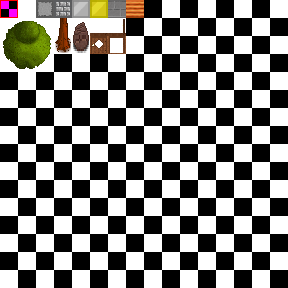
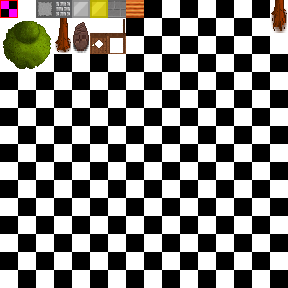
[Server, Client] Almost finished tile entities

Changed region(s): [[0.9375, 0.0, 1.0, 0.125]]

diff --git a/client-source/World/EntitiesManager.cpp b/client-source/World/EntitiesManager.cpp
@@ -54,6 +54,7 @@ void EntitiesManager::updateAll(float delta)
 
     for (Entity*& entity : entities_vector)
         entity->updateBase(delta);
+
     entities_mutex.unlock();
 }
 
@@ -142,27 +143,13 @@ bool EntitiesManager::addEntity(sf::Packet& packet)
                 return false;
             }
 
-            sf::Vector2i chunk_pos = World::getChunkPosFromBlockPos(tile_pos);
-
-            std::cout << "Tile entity to add to chunk " << chunk_pos.x << ", " << chunk_pos.y << " (at position " << tile_pos.x << ", " << tile_pos.y << ")." << std::endl;
-
-            if (!world.isChunkLoaded(chunk_pos))
-            {
-                std::cerr << "Tile entity wasn't added (chunk is unloaded)." << std::endl;
-                return false;
-            }
-
-
-
-            Chunk& chunk = world.getChunk(chunk_pos);
-
             switch (tile_entity_code)
             {
             case TileEntities::None:
                 return true;
             case TileEntities::TestTileEntity:
-                new_entity = new TestTileEntity(world, entity_id, chunk, tile_pos);
-                return true;
+                new_entity = new TestTileEntity(world, entity_id, tile_pos);
+                break;
             default:
                 std::cerr << "Tile entity type code unknown." << std::endl;
                 return false;
@@ -267,4 +254,22 @@ bool EntitiesManager::doEntityAction(sf::Packet& packet)
     sf::Lock lock(entities_mutex);
 
     return en->takePacket(packet);
+}
+
+void EntitiesManager::declareNewChunkForTileEntities(Chunk* new_chunk)
+{
+    entities_mutex.lock();
+
+    for (Entity*& entity : entities_vector)
+    {
+        if (entity->isTileEntity())
+        {
+            TileEntity* te = (TileEntity*) entity;
+
+            if (!te->isReady())
+                te->assignChunk(new_chunk);
+        }
+    }
+
+    entities_mutex.unlock();
 }

diff --git a/common-source/Entities/TileEntity.cpp b/common-source/Entities/TileEntity.cpp
@@ -2,22 +2,55 @@
 
 #ifdef CLIENT_SIDE
     #include "../../client-source/World/Chunk.h"
+    #include "../../client-source/World/World.h"
+
+    #include "GameEntities/Player.h"
 #else
     #include "../../server-source/World/Chunk.h"
+    #include "../../server-source/World/World.h"
+
+    #include <iostream>
 #endif // CLIENT_SIDE
 
-TileEntity::TileEntity(World& world, unsigned int id, Chunk& chunk, sf::Vector2i tile_pos) :
+TileEntity::TileEntity(World& world, unsigned int id, sf::Vector2i tile_pos) :
     Entity(world, id),
-    chunk(chunk),
-    tile_pos(tile_pos)
+    chunk(nullptr),
+    tile_pos(tile_pos),
+    chunk_pos(World::getChunkPosFromBlockPos(tile_pos)),
+    ready(false)
 {
     position = sf::Vector2f(.5f + tile_pos.x, .5f + tile_pos.y);
-    chunk_on = chunk.getPos();
+    chunk_on = chunk_pos;
 }
 
 TileEntity::~TileEntity()
 {
-    //dtor
+}
+
+void TileEntity::assignChunk(Chunk* chunk_ptr)
+{
+    sf::Vector2i pos = World::getBlockPosInChunk(tile_pos);
+
+    chunk = chunk_ptr;
+
+    if (chunk_ptr)
+        chunk->tile_entities.set(pos.x, pos.y, this);
+
+    ready = !!chunk_ptr;
+}
+
+void TileEntity::update(float delta)
+{
+    #ifdef CLIENT_SIDE
+    if (!ready)
+    {
+        if (!Player::this_player || Player::this_player->isSubscribedTo(chunk_pos))
+            to_be_removed = true;
+    }
+    #endif // CLIENT_SIDE
+
+    if (ready)
+        teUpdate(delta);
 }
 
 #ifndef CLIENT_SIDE
@@ -35,3 +68,5 @@ void TileEntity::makeNewEntityPacket(sf::Packet& packet) const
     addInfoToNewEntityPacket(packet);
 }
 #endif
+
+void TileEntity::teUpdate(float delta) {}

diff --git a/server-source/World/EntitiesManager.cpp b/server-source/World/EntitiesManager.cpp
@@ -6,6 +6,8 @@
 #include "../../common-source/Networking/NetworkingCodes.h"
 #include "../../common-source/Entities/EntityCodes.h"
 
+#include <iostream>
+
 EntitiesManager::EntitiesManager(Server& server) :
     server(server),
     next_entity_id(0)
@@ -27,7 +29,7 @@ void EntitiesManager::updateAll(float delta)
     entities_mutex.unlock();
 }
 
-bool EntitiesManager::newEntity(Entity* entity)
+bool EntitiesManager::newEntity(Entity* entity, bool declare)
 {
     sf::Lock lock(entities_mutex);
 
@@ -39,10 +41,14 @@ bool EntitiesManager::newEntity(Entity* entity)
 
     entities.emplace(std::pair<unsigned int, Entity*>(entity->getId(), entity));
 
-    sf::Packet packet;
-    entity->makeNewEntityPacket(packet);
+    if (declare)
+    {
+        sf::Packet packet;
+        std::cout << "New entity spawn packet, for " << entity->getId() << " (newEntity)" << std::endl;
+        entity->makeNewEntityPacket(packet);
 
-    server.getClientsManager().sendToAll(packet);
+        server.getClientsManager().sendToAll(packet);
+    }
 
     return true;
 }
@@ -73,6 +79,7 @@ void EntitiesManager::sendAddEntityFromAllEntitiesInChunk(sf::Vector2i chunk_pos
         Entity* entity = i->second;
         if (entity->getChunkOn() == chunk_pos)
         {
+            std::cout << "New entity spawn packet, for " << entity->getId() << " (allentities)" << std::endl;
             entity->makeNewEntityPacket(packet);
             client.send(packet);
         }

diff --git a/common-source/Entities/TileEntity.h b/common-source/Entities/TileEntity.h
@@ -12,10 +12,12 @@ class TileEntity : public Entity
         inline unsigned short getEntityCode() const override { return Entities::TileEntity; };
         virtual inline unsigned short getTileEntityCode() const { return TileEntities::None; };
 
-        TileEntity(World& world, unsigned int id, Chunk& chunk, sf::Vector2i tile_pos);
+        TileEntity(World& world, unsigned int id, sf::Vector2i tile_pos);
         virtual ~TileEntity();
 
         inline sf::Vector2i getTilePos() const { return tile_pos; }
+
+        void update(float delta) override;
 
         #ifdef CLIENT_SIDE
         inline void moreOnChunkChange(sf::Vector2i old_chunk, sf::Vector2i new_chunk) override {}
@@ -23,9 +25,19 @@ class TileEntity : public Entity
         void makeNewEntityPacket(sf::Packet& packet) const override;
         #endif // CLIENT_SIDE
 
+        inline bool isTileEntity() const override { return true; }
+
+        inline bool isReady() const { return ready; }
+        void assignChunk(Chunk* chunk_ptr);
+
     protected:
-        Chunk& chunk;
-        sf::Vector2i tile_pos;
+        Chunk* chunk;
+        const sf::Vector2i tile_pos;
+        const sf::Vector2i chunk_pos;
+
+        virtual void teUpdate(float delta);
+
+        bool ready;
 
     private:
 };

diff --git a/server-source/World/Chunk.cpp b/server-source/World/Chunk.cpp
@@ -21,6 +21,7 @@ Chunk::Chunk(World& world, sf::Vector2i pos) :
     ready(false),
     blocks(CHUNK_SIZE, CHUNK_SIZE, 0),
     grounds(CHUNK_SIZE, CHUNK_SIZE, 1),
+    tile_entities(CHUNK_SIZE, CHUNK_SIZE, nullptr),
     pos(pos),
     server(world.getServer()),
     world(world),
@@ -29,13 +30,22 @@ Chunk::Chunk(World& world, sf::Vector2i pos) :
 {
     world.getGenerator()->generateChunk(this);
 
-    world.getEntityManager().newEntity(new TestTileEntity(world, world.getEntityManager().getNextEntityId(), *this, getBlockPosInWorld(0, 0)));
+    TestTileEntity* te = new TestTileEntity(world, world.getEntityManager().getNextEntityId(), getBlockPosInWorld(0, 0));
+    te->assignChunk(this);
+    world.getEntityManager().newEntity(te, false);
+
 
     ready = true;
 }
 
 Chunk::~Chunk()
 {
+    for (int i = 0; i < tile_entities.getDataSize(); i++)
+    {
+        tile_entities.getData()[i]->assignChunk(nullptr);
+        //tile_entities.getData()[i]->to_be_destroyed = true;
+    }
+
     //dtor
 }
 

diff --git a/common-source/Entities/GameTileEntities/TestTileEntity.cpp b/common-source/Entities/GameTileEntities/TestTileEntity.cpp
@@ -2,8 +2,8 @@
 
 #include <iostream>
 
-TestTileEntity::TestTileEntity(World& world, unsigned int id, Chunk& chunk, sf::Vector2i tile_pos) :
-    TileEntity(world, id, chunk, tile_pos)
+TestTileEntity::TestTileEntity(World& world, unsigned int id, sf::Vector2i tile_pos) :
+    TileEntity(world, id, tile_pos)
 {
     #ifdef CLIENT_SIDE
     rectangle.setPosition(getPosition());
@@ -20,7 +20,9 @@ TestTileEntity::~TestTileEntity()
 #ifdef CLIENT_SIDE
 void TestTileEntity::draw(sf::RenderTarget& target) const
 {
-    std::cout << "DIIIII" << std::endl;
+    if (!isReady())
+        return;
+
     target.draw(rectangle);
 }
 #endif

diff --git a/server-source/World/EntitiesManager.h b/server-source/World/EntitiesManager.h
@@ -24,9 +24,10 @@ class EntitiesManager
          * If the entity couldnt be added, it will be deleted
          * A packet will be sent to all the clients to inform them
          * @param entity : the pointer to the entity to add
+         * @param declare : if the new entity should be sent to all players in the chunk (false if that entity was generated WITH the chunk)
          * @return True if the entity was added, False if it wasn't and deleted
          */
-        bool newEntity(Entity* entity);
+        bool newEntity(Entity* entity, bool declare = true);
 
         /**
          * Removes an entity using its id

diff --git a/client-source/World/Chunk.h b/client-source/World/Chunk.h
@@ -6,6 +6,8 @@
 
 #include "../Utils/Arr2D.h"
 
+#include "../../common-source/Entities/TileEntity.h"
+
 class Game;
 class Block;
 class Ground;
@@ -13,6 +15,8 @@ class World;
 
 class Chunk
 {
+    friend class TileEntity;
+
     public:
         static const int CHUNK_SIZE;
 
@@ -120,6 +124,7 @@ class Chunk
         bool ready = false;
 
         Arr2D<uint16_t> blocks, grounds;
+        Arr2D<TileEntity*> tile_entities;
         const sf::Vector2i pos;
 
         mutable sf::VertexArray ground_vertices, block_side_vertices, block_top_vertices;

diff --git a/server-source/World/Chunk.h b/server-source/World/Chunk.h
@@ -4,6 +4,8 @@
 
 #include "../Utils/Arr2D.h"
 
+#include "../../common-source/Entities/TileEntity.h"
+
 //#include "../Ground/GameGrounds.h"
 
 class Server;
@@ -13,6 +15,8 @@ class Ground;
 
 class Chunk
 {
+    friend class TileEntity;
+
     public:
         static const int CHUNK_SIZE;
 
@@ -87,6 +91,7 @@ class Chunk
         bool ready = false;
 
         Arr2D<uint16_t> blocks, grounds;
+        Arr2D<TileEntity*> tile_entities;
         const sf::Vector2i pos;
 
         Server& server;

diff --git a/client-source/World/EntitiesManager.h b/client-source/World/EntitiesManager.h
@@ -7,6 +7,7 @@
 #include <SFML/Network.hpp>
 
 #include "../../common-source/Entities/Entity.h"
+#include "../../common-source/Entities/TileEntity.h"
 
 class EntitiesManager
 {
@@ -26,6 +27,8 @@ class EntitiesManager
          * @param target : the render target on which to draw on
          */
         void drawAll(sf::RenderTarget& target) const;
+
+        void declareNewChunkForTileEntities(Chunk* new_chunk);
 
         /**
          * Get a pointer to an entity using its id

diff --git a/common-source/Entities/GameTileEntities/TestTileEntity.h b/common-source/Entities/GameTileEntities/TestTileEntity.h
@@ -11,7 +11,7 @@ class TestTileEntity : public TileEntity
     public:
         inline unsigned short getTileEntityCode() const override { return TileEntities::TestTileEntity; };
 
-        TestTileEntity(World& world, unsigned int id, Chunk& chunk, sf::Vector2i tile_pos);
+        TestTileEntity(World& world, unsigned int id, sf::Vector2i tile_pos);
         ~TestTileEntity();
 
         #ifdef CLIENT_SIDE

diff --git a/client-source/World/Chunk.cpp b/client-source/World/Chunk.cpp
@@ -13,6 +13,7 @@ const int Chunk::CHUNK_SIZE = 16;
 Chunk::Chunk(World& world, sf::Vector2i pos, sf::Packet& packet, bool& success) :
     blocks(CHUNK_SIZE, CHUNK_SIZE, 0),
     grounds(CHUNK_SIZE, CHUNK_SIZE, 0),
+    tile_entities(CHUNK_SIZE, CHUNK_SIZE, nullptr),
     pos(pos),
     ground_vertices(sf::Quads, 4 * CHUNK_SIZE * CHUNK_SIZE),
     block_side_vertices(sf::Quads),
